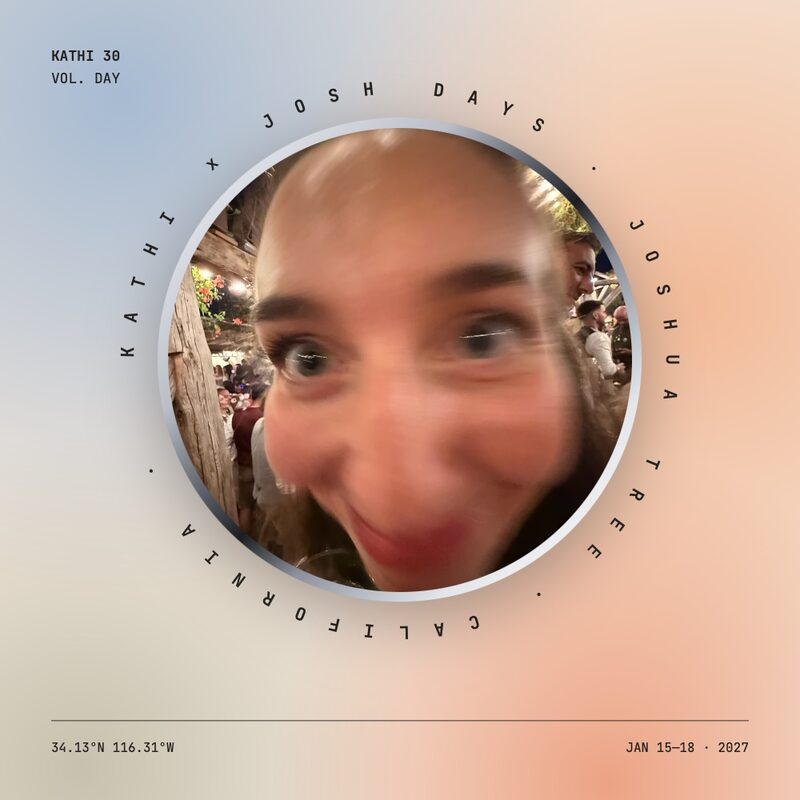
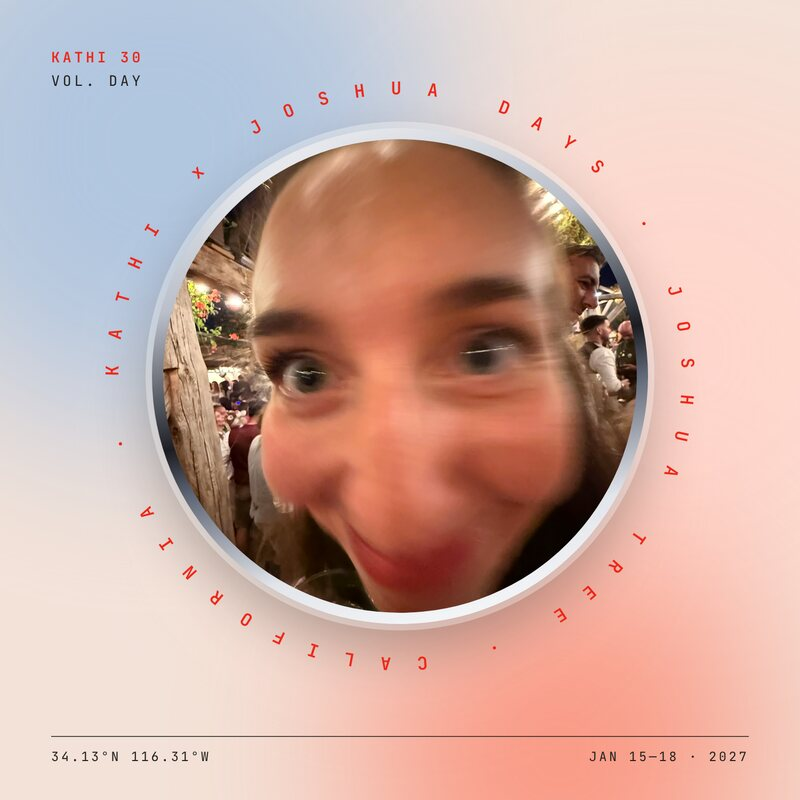
New playlist covers (KATHI x JOSHUA, new palette) on the site + full-size PNGs
Claude-Session: https://claude.ai/code/session_015srq9B7aamxsEMEASfp4Nc

diff --git a/site/index.html b/site/index.html
@@ -216,7 +216,7 @@
         <span class="mono-plain ls1">☀ DAY PLAYLIST</span>
         <span class="pl-title">kathi x joshua days</span>
         <span class="body16">Pool floats, hike playlists, golden hour. Think breezy, sunny, a little psychedelic.</span>
-        <a data-href="dayPlaylistUrl" target="_blank" rel="noopener" class="cover"><img src="assets/cover-days.jpg" alt="Day playlist cover" loading="lazy" width="800" height="800"></a>
+        <a data-href="dayPlaylistUrl" target="_blank" rel="noopener" class="cover"><img src="assets/cover-days.jpg?v=2" alt="Day playlist cover" loading="lazy" width="800" height="800"></a>
         <a data-href="dayPlaylistUrl" target="_blank" rel="noopener" class="btn-sm btn-dark mono self-start">add your song →</a>
       </div>
       <div class="polaroid">
@@ -228,7 +228,7 @@
         <span class="mono-plain ls1">🌙 NIGHT PLAYLIST</span>
         <span class="pl-title chrome-soft-text">kathi x joshua nights</span>
         <span class="body16">Dinner → dance floor → 2am singalongs. Bangers only, guilty pleasures encouraged.</span>
-        <a data-href="nightPlaylistUrl" target="_blank" rel="noopener" class="cover"><img src="assets/cover-nights.jpg" alt="Night playlist cover" loading="lazy" width="800" height="800"></a>
+        <a data-href="nightPlaylistUrl" target="_blank" rel="noopener" class="cover"><img src="assets/cover-nights.jpg?v=2" alt="Night playlist cover" loading="lazy" width="800" height="800"></a>
         <a data-href="nightPlaylistUrl" target="_blank" rel="noopener" class="btn-sm btn-chrome mono self-start">add your song →</a>
       </div>
     </div>
